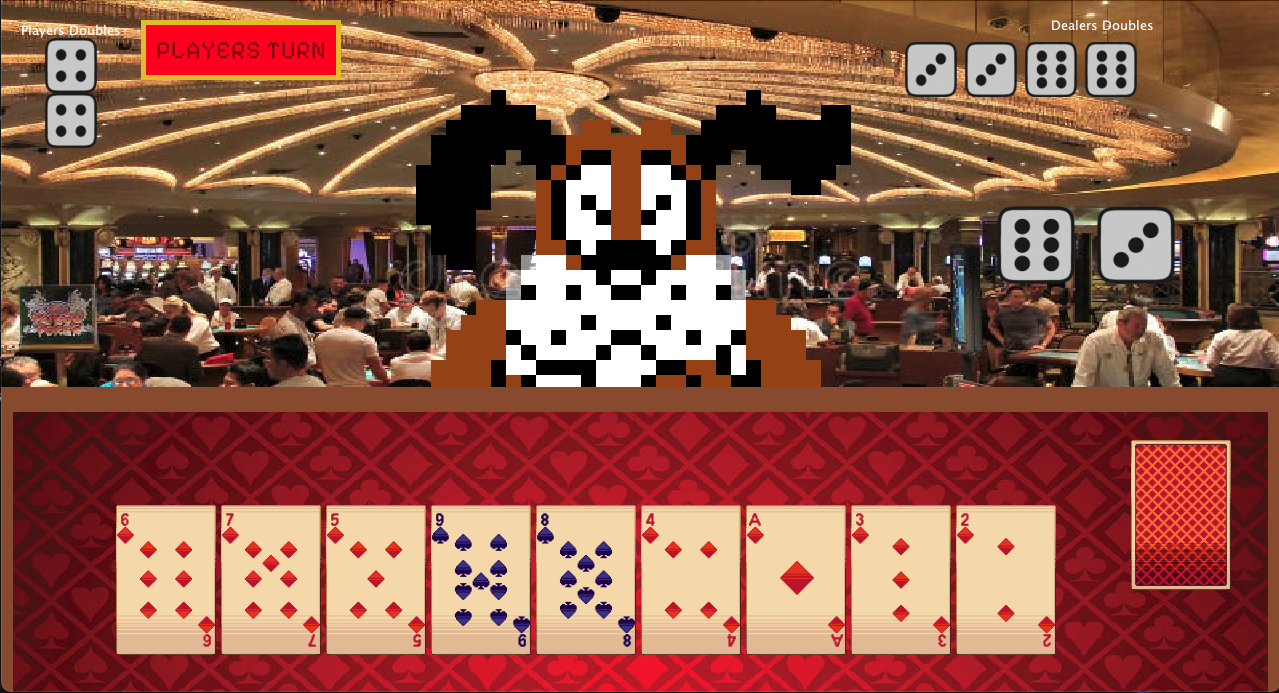
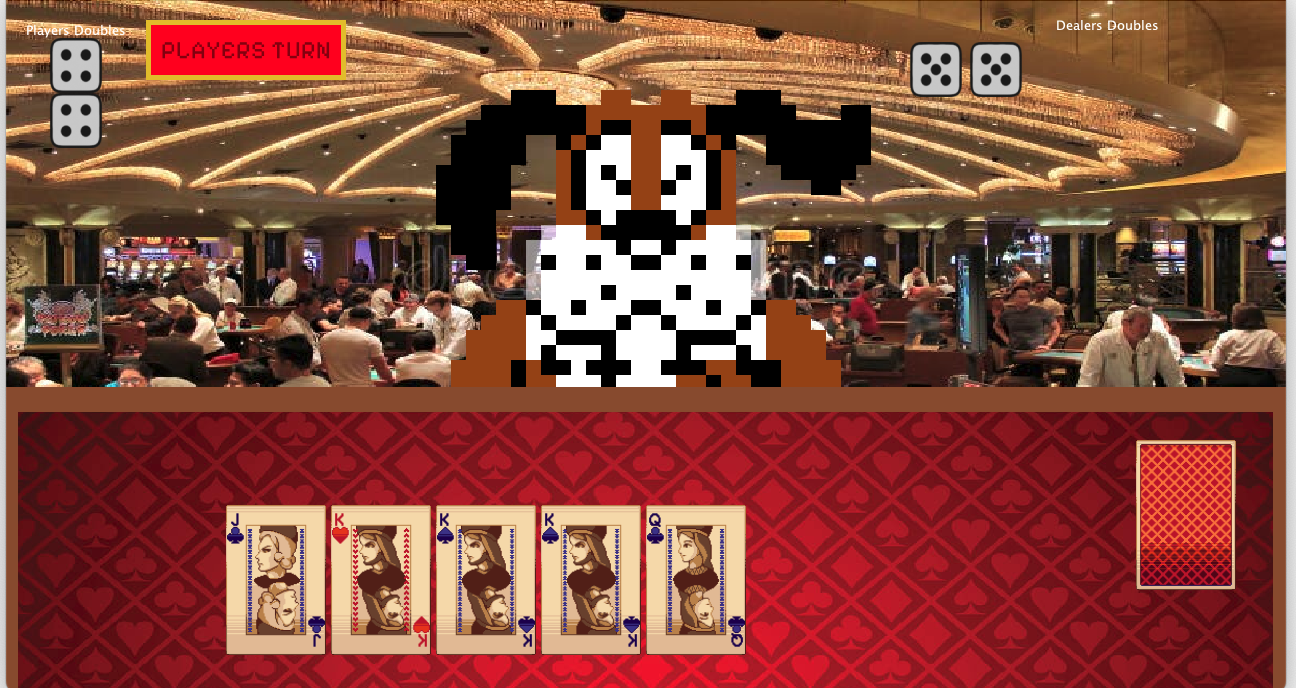
updated baccano thumbnail image

diff --git a/GroupGame/src/Levels/GameLevels/Baccano.java b/GroupGame/src/Levels/GameLevels/Baccano.java
@@ -91,7 +91,7 @@ public class Baccano extends Level2 implements ActionListener {
 
     // TRACKS ARRAY ABOVE HOW FULL
     int playerDiceDub = 0;
-    int dealerDiceDub = 6;
+    int dealerDiceDub = 0;
 
     JLabel turnLabel = new JLabel("PLAYERS TURN", SwingConstants.CENTER);
 
@@ -160,7 +160,7 @@ public class Baccano extends Level2 implements ActionListener {
 
         // ADD PANELS
         playersHand.setBackground(Color.YELLOW);
-        // playersHand.setOpaque(false);
+        playersHand.setOpaque(false);
         playersHand.setBounds(100, 500, 970, 200);
         add(playersHand);
 
@@ -283,7 +283,7 @@ public class Baccano extends Level2 implements ActionListener {
             dealerDice[k] = new JButton();
             dealerDice[k].setBorderPainted(false);
             dealerDice[k].setPreferredSize(new Dimension(60, 55));
-            dealerDice[k].setToolTipText("6");
+            dealerDice[k].setToolTipText("NA");
 
             constraints = new GridBagConstraints();
             constraints.gridx = k;
